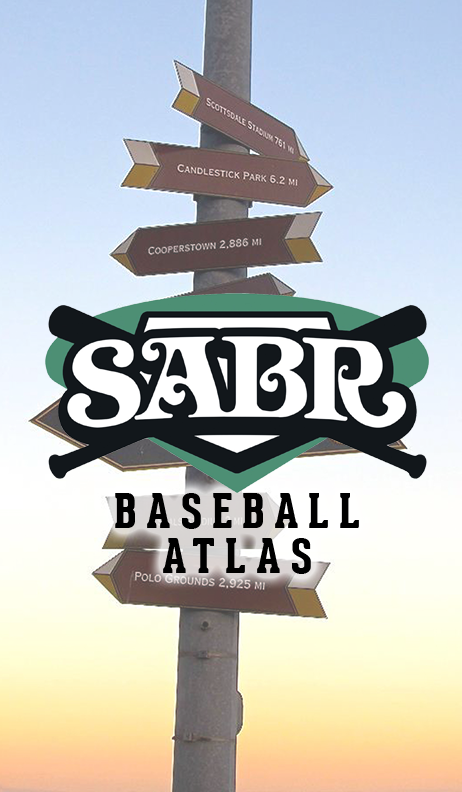
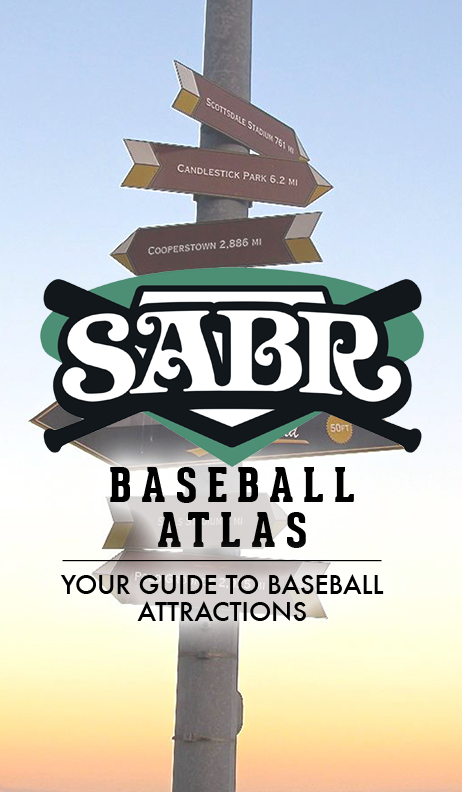
March 06 Update
Fixed back button, final page formatting.

Changed region(s): [[0.0909, 0.3333, 0.9394, 0.8182]]

diff --git a/WebContent/splashscreen.html b/WebContent/splashscreen.html
@@ -2,7 +2,7 @@
 <html>
 <head>
 <meta charset="US-ASCII">
-<title>Sabr</title>
+<title>SABR</title>
 
 <script type="text/javascript">
 	setTimeout(function() {
